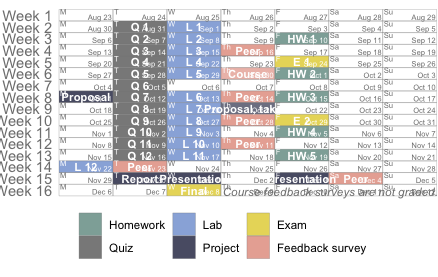
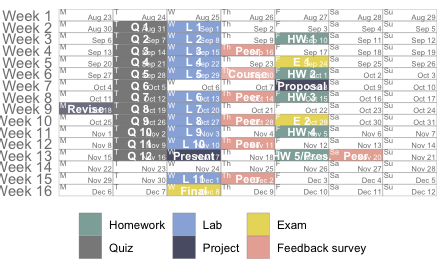
updating deadlines

diff --git a/docs/index.html b/docs/index.html
@@ -1056,7 +1056,7 @@
 
     
     <div class="article-style">
-      Intro
+      Learning the tools of the trade
     </div>
     
 
@@ -1156,7 +1156,7 @@
 
     
     <div class="article-style">
-      Intro
+      Learn the fundamentals of probability with a focus on its use in statistics
     </div>
     
 
@@ -2983,7 +2983,7 @@
 <p>The goal is not to do an exhaustive data analysis i.e., do not calculate every statistic and procedure you have learned for every variable, but rather let me know that you are proficient at asking meaningful questions and answering them with results of data analysis, that you are proficient in using R, and that you are proficient at interpreting and presenting the results. Focus on methods that help you begin to answer your research questions. You do not have to apply every statistical procedure we learned. Also, critique your own methods and provide suggestions for improving your analysis. Issues pertaining to the reliability and validity of your data, and appropriateness of the statistical analysis should be discussed here.</p>
 <p>The project is very open ended. You should create some kind of compelling visualization(s) of these data in R. There is no limit on what tools or packages you may use, but sticking to packages we learned in class (<code>tidyverse</code>) is required. You do not need to visualize all of the data at once. A single high quality visualization will receive a much higher grade than a large number of poor quality visualizations. Also pay attention to your presentation. Neatness, coherency, and clarity will count. All analyses must be done in RStudio, using R.</p>
 <h3 id="data">Data</h3>
-<p>In order for you to have the greatest chance of success with this project it is important that you choose a manageable data set. This means that the data should be readily accessible and large enough that multiple relationships can be explored. As such, your data set must have at least 50 observations and say 10-20 variables (exceptions can be made, but you must speak with me first). The variables in the data should include categorical variables, discrete numerical variables, and continuous numerical variables.</p>
+<p>In order for you to have the greatest chance of success with this project it is important that you choose a manageable data set. This means that the data should be readily accessible and large enough that multiple relationships can be explored. As such, your data set must have at least 50 observations and say 10-20 variables (exceptions can be made, but you must speak with me first). The variables in the data should include variables of multiple types (e.g., categorical and continuous).</p>
 <p>If you are using a data set that comes in a format that we haven&rsquo;t encountered in class, make sure that you are able to load it into R as this can be tricky depending on the source. If you are having trouble ask for help before it is too late.</p>
 <p><strong>Note on reusing data sets from class:</strong> Do not reuse data sets used in examples, homework assignments, or labs in the class.</p>
 <p>Below are a list of data repositories that might be of interest to browse. You&rsquo;re not limited to these resources, and in fact you&rsquo;re encouraged to venture beyond them. But you might find something interesting there:</p>
@@ -3001,21 +3001,24 @@
 <li><a href="https://chronicdata.cdc.gov/Youth-Risk-Behaviors/DASH-Youth-Risk-Behavior-Surveillance-System-YRBSS/q6p7-56au">Youth Risk Behavior Surveillance System (YRBSS)</a></li>
 <li><a href="https://www.icpsr.umich.edu/icpsrweb/content/ICPSR/fenway.html">PRISM Data Archive Project</a></li>
 <li><a href="https://dataverse.harvard.edu/">Harvard Dataverse</a></li>
+<li><a href="http://data.un.org/">United Nations Data</a></li>
+<li><a href="https://unstats.un.org/home/">United Nations Statistics Division</a></li>
 <li>If you know of others, let me know, and we&rsquo;ll add here&hellip;</li>
 </ul>
 <h3 id="deliverables">Deliverables</h3>
 <ol>
-<li>Proposal     - due Monday, October 11, at 4:00pm</li>
-<li>Proposal revision     - due Thursday, October 21, at 4:00 pm (optional)</li>
-<li>Write-up     - due Wednesday, December 1, at 10:00am</li>
-<li>Presentation - Wednesday, December 1 or Friday, December 3, in class</li>
+<li>Proposal     - due Friday, October 8, at 4:00pm</li>
+<li>Proposal revision     - due Monday, October 18, at 4:00 pm (optional)</li>
+<li>Write-up     - due Tuesday, November 17, at 11:59pm</li>
+<li>Presentation - Wednesday, November 17 or Friday, November 19, in class</li>
 </ol>
 <h4 id="proposal">Proposal</h4>
+<p>The purposes of the proposal are (1) to help you get started early with thinking about the project, reading relevant literature, and formulating your scientific questions, and (2) to ensure the data you wish to analyze, methods you wish to use, and scope of your analysis are feasible and set you up for success with your project.</p>
 <ul>
 <li>
 <p>Section 1 - Introduction: The introduction should introduce your general
 research question and your data (where it came from, how it was collected,
-what are the cases, what are the  variables, etc.).</p>
+what are the cases, what are the  variables, etc.). The motivation for your research question should be clear, with citations to relevant literature as appropriate.</p>
 </li>
 <li>
 <p>Section 2 - Data: Place your data in the <code>/data</code> folder, and add dimensions
@@ -3043,10 +3046,10 @@ print preview to confirm length.</p>
 <p>5 minutes maximum, and each team member should say something substantial. You can either present live or pre-record and submit your video to be played during the presentation day.</p>
 <p>Prepare a slide deck using the template in your repo. This template uses a package called <code>xaringan</code>, and allows you to make presentation slides using R Markdown syntax. There isn&rsquo;t a limit to how many slides you can use, just a time limit (5 minutes total). Each team member should get a chance to speak during the presentation. Your presentation should not just be an account of everything you tried (&ldquo;then we did this, then we did this, etc.&quot;), instead it should convey what choices you made, and why, and what you found.</p>
 <p>Before you finalize your presentation, make sure your chunks are turned off with <code>echo = FALSE</code>.</p>
-<p>Presentation schedule: Presentations will take place during the first week of December. You can choose to do your presentation live or pre-record it. During class you will watch presentations from other teams and provide feedback in the form of peer evaluations. The presentation line-up will be generated randomly.</p>
+<p>Presentation schedule: Presentations will take place during the third week of November. You can choose to do your presentation live or pre-record it. During class you will watch presentations from other teams and provide feedback in the form of peer evaluations. The presentation line-up will be generated randomly.</p>
 <h4 id="write-up">Write-up</h4>
 <p>Along with your presentation slides, we want you to provide a brief summary of your project in the README of your repository.</p>
-<p>This write-up, which you can also think of as an summary of your project, should provide information on the dataset you&rsquo;re using, your research question(s), your methodology, and your findings.</p>
+<p>This write-up, which you can also think of as an summary of your project, should provide information on the dataset you&rsquo;re using, your research question(s), your methodology, and your findings.  Additional information will be provided closer to the project deadline regarding formatting and other tips.</p>
 <h4 id="repo-organization">Repo organization</h4>
 <p>The following folders and files in your project repository:</p>
 <ul>
@@ -3077,7 +3080,7 @@ print preview to confirm length.</p>
 <tbody>
 <tr>
 <td>Proposal</td>
-<td>15 pts</td>
+<td>10 pts</td>
 </tr>
 <tr>
 <td>Presentation</td>
@@ -3085,11 +3088,11 @@ print preview to confirm length.</p>
 </tr>
 <tr>
 <td>Write-up</td>
-<td>40 pts</td>
+<td>50 pts</td>
 </tr>
 <tr>
 <td>Reproducibility and organization</td>
-<td>15 pts</td>
+<td>10 pts</td>
 </tr>
 </tbody>
 </table>

diff --git a/docs/post/02-week/index.html b/docs/post/02-week/index.html
@@ -28,7 +28,7 @@
   
     
   
-  <meta name="description" content="Intro">
+  <meta name="description" content="Learn the fundamentals of probability with a focus on its use in statistics">
 
   
   <link rel="alternate" hreflang="en-us" href="https://sta198f2021.github.io/website/post/02-week/">
@@ -111,7 +111,7 @@
   <meta property="og:site_name" content="STA 198 / GLHLTH 298">
   <meta property="og:url" content="https://sta198f2021.github.io/website/post/02-week/">
   <meta property="og:title" content="Week 2 - Probability | STA 198 / GLHLTH 298">
-  <meta property="og:description" content="Intro"><meta property="og:image" content="https://sta198f2021.github.io/website/post/02-week/featured.jpg">
+  <meta property="og:description" content="Learn the fundamentals of probability with a focus on its use in statistics"><meta property="og:image" content="https://sta198f2021.github.io/website/post/02-week/featured.jpg">
   <meta property="twitter:image" content="https://sta198f2021.github.io/website/post/02-week/featured.jpg"><meta property="og:locale" content="en-us">
   
     
@@ -167,7 +167,7 @@
       "url": "https://sta198f2021.github.io/website/img/icon-512.png"
     }
   },
-  "description": "Intro"
+  "description": "Learn the fundamentals of probability with a focus on its use in statistics"
 }
 </script>
 

diff --git a/docs/post/01-week/index.html b/docs/post/01-week/index.html
@@ -28,7 +28,7 @@
   
     
   
-  <meta name="description" content="Intro">
+  <meta name="description" content="Learning the tools of the trade">
 
   
   <link rel="alternate" hreflang="en-us" href="https://sta198f2021.github.io/website/post/01-week/">
@@ -111,7 +111,7 @@
   <meta property="og:site_name" content="STA 198 / GLHLTH 298">
   <meta property="og:url" content="https://sta198f2021.github.io/website/post/01-week/">
   <meta property="og:title" content="Week 1 - Welcome to Global Health Data Science | STA 198 / GLHLTH 298">
-  <meta property="og:description" content="Intro"><meta property="og:image" content="https://sta198f2021.github.io/website/post/01-week/featured.jpg">
+  <meta property="og:description" content="Learning the tools of the trade"><meta property="og:image" content="https://sta198f2021.github.io/website/post/01-week/featured.jpg">
   <meta property="twitter:image" content="https://sta198f2021.github.io/website/post/01-week/featured.jpg"><meta property="og:locale" content="en-us">
   
     
@@ -167,7 +167,7 @@
       "url": "https://sta198f2021.github.io/website/img/icon-512.png"
     }
   },
-  "description": "Intro"
+  "description": "Learning the tools of the trade"
 }
 </script>
 

diff --git a/docs/post/page/2/index.html b/docs/post/page/2/index.html
@@ -858,7 +858,7 @@
 
     
     <div class="article-style">
-      Intro
+      Learn the fundamentals of probability with a focus on its use in statistics
     </div>
     
 
@@ -958,7 +958,7 @@
 
     
     <div class="article-style">
-      Intro
+      Learning the tools of the trade
     </div>
     
 

diff --git a/content/home/project.md b/content/home/project.md
@@ -24,7 +24,7 @@ The project is very open ended. You should create some kind of compelling visual
 
 ### Data
 
-In order for you to have the greatest chance of success with this project it is important that you choose a manageable data set. This means that the data should be readily accessible and large enough that multiple relationships can be explored. As such, your data set must have at least 50 observations and say 10-20 variables (exceptions can be made, but you must speak with me first). The variables in the data should include categorical variables, discrete numerical variables, and continuous numerical variables.
+In order for you to have the greatest chance of success with this project it is important that you choose a manageable data set. This means that the data should be readily accessible and large enough that multiple relationships can be explored. As such, your data set must have at least 50 observations and say 10-20 variables (exceptions can be made, but you must speak with me first). The variables in the data should include variables of multiple types (e.g., categorical and continuous).
 
 If you are using a data set that comes in a format that we haven't encountered in class, make sure that you are able to load it into R as this can be tricky depending on the source. If you are having trouble ask for help before it is too late.
 
@@ -45,21 +45,24 @@ Below are a list of data repositories that might be of interest to browse. You'r
 - [Youth Risk Behavior Surveillance System (YRBSS)](https://chronicdata.cdc.gov/Youth-Risk-Behaviors/DASH-Youth-Risk-Behavior-Surveillance-System-YRBSS/q6p7-56au)
 - [PRISM Data Archive Project](https://www.icpsr.umich.edu/icpsrweb/content/ICPSR/fenway.html)
 - [Harvard Dataverse](https://dataverse.harvard.edu/)
+- [United Nations Data](http://data.un.org/)
+- [United Nations Statistics Division](https://unstats.un.org/home/)
 - If you know of others, let me know, and we'll add here...
 
 ### Deliverables
 
-1. Proposal     - due Monday, October 11, at 4:00pm
-2. Proposal revision     - due Thursday, October 21, at 4:00 pm (optional)
-3. Write-up     - due Wednesday, December 1, at 10:00am
-4. Presentation - Wednesday, December 1 or Friday, December 3, in class
-
+1. Proposal     - due Friday, October 8, at 4:00pm
+2. Proposal revision     - due Monday, October 18, at 4:00 pm (optional)
+3. Write-up     - due Tuesday, November 17, at 11:59pm
+4. Presentation - Wednesday, November 17 or Friday, November 19, in class
 
 #### Proposal
 
+The purposes of the proposal are (1) to help you get started early with thinking about the project, reading relevant literature, and formulating your scientific questions, and (2) to ensure the data you wish to analyze, methods you wish to use, and scope of your analysis are feasible and set you up for success with your project.
+
 - Section 1 - Introduction: The introduction should introduce your general 
 research question and your data (where it came from, how it was collected, 
-what are the cases, what are the  variables, etc.).
+what are the cases, what are the  variables, etc.). The motivation for your research question should be clear, with citations to relevant literature as appropriate.
 
 - Section 2 - Data: Place your data in the `/data` folder, and add dimensions 
 and codebook to the README in that folder. Then print out the output of 
@@ -79,6 +82,7 @@ your hypothesized answer?
 Each section should be no more than 1 page (excluding figures). You can check a 
 print preview to confirm length. 
 
+
 #### Presentation
 
 5 minutes maximum, and each team member should say something substantial. You can either present live or pre-record and submit your video to be played during the presentation day.
@@ -87,13 +91,13 @@ Prepare a slide deck using the template in your repo. This template uses a packa
 
 Before you finalize your presentation, make sure your chunks are turned off with `echo = FALSE`. 
 
-Presentation schedule: Presentations will take place during the first week of December. You can choose to do your presentation live or pre-record it. During class you will watch presentations from other teams and provide feedback in the form of peer evaluations. The presentation line-up will be generated randomly.
+Presentation schedule: Presentations will take place during the third week of November. You can choose to do your presentation live or pre-record it. During class you will watch presentations from other teams and provide feedback in the form of peer evaluations. The presentation line-up will be generated randomly.
 
 #### Write-up
 
 Along with your presentation slides, we want you to provide a brief summary of your project in the README of your repository.
 
-This write-up, which you can also think of as an summary of your project, should provide information on the dataset you're using, your research question(s), your methodology, and your findings. 
+This write-up, which you can also think of as an summary of your project, should provide information on the dataset you're using, your research question(s), your methodology, and your findings.  Additional information will be provided closer to the project deadline regarding formatting and other tips.
 
 #### Repo organization
 
@@ -120,10 +124,10 @@ Style and format does count for this assignment, so please take the time to make
 
 Total                          | 100 pts
 -------------------------------|--------
-Proposal                       | 15 pts
+Proposal                       | 10 pts
 Presentation                   | 30 pts
-Write-up                       | 40 pts
-Reproducibility and organization | 15 pts
+Write-up                       | 50 pts
+Reproducibility and organization | 10 pts
 
 
 ### Criteria

diff --git a/content/post/01-week/index.md b/content/post/01-week/index.md
@@ -12,7 +12,7 @@ image:
 lastmod: "2021-07-01T00:00:00Z"
 projects: []
 subtitle: 'Welcome to STA 198 / GLHLTH 298! :sunrise_over_mountains:'
-summary: Intro
+summary: Learning the tools of the trade
 title: 'Week 1 - Welcome to Global Health Data Science'
 ---
 

diff --git a/content/post/02-week/index.md b/content/post/02-week/index.md
@@ -12,7 +12,7 @@ image:
 lastmod: "2021-07-02T00:00:00Z"
 projects: []
 subtitle: 'Introduction to Probability :beginner:'
-summary: Intro
+summary: Learn the fundamentals of probability with a focus on its use in statistics
 title: 'Week 2 - Probability'
 ---
 

diff --git a/content/post/00-overview/indexwithschedulecode.md b/content/post/00-overview/indexwithschedulecode.md
@@ -105,7 +105,7 @@ d_cal %>%
   ) +
   labs(
     fill = "",
-    caption = "Course feedback surveys are not graded."
+    caption = ""
   ) +
   geom_text(
     data = d_cal %>% filter(day == "Monday"),
